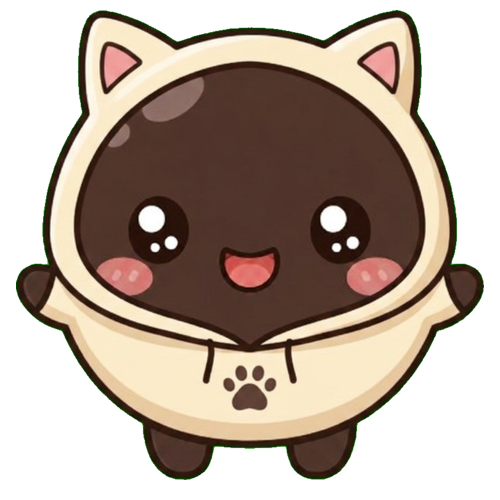
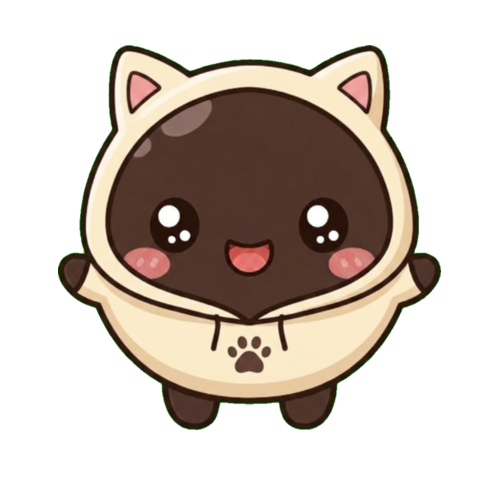
Ambient FX for every theme + right-size the 2 new skins
Backgrounds felt flat, so every theme now has motion native to its world
(same .theme-fx infra as galaxy/winter, pure CSS, reduced-motion gated):
  cozy    - faint warm dust motes rising in the window light
  night   - glowing fireflies that pulse + wander, plus stars
  sakura  - two layers of falling cherry petals
  autumn  - drifting amber/rust leaves
  rainy   - two rain-streak layers + a fog breath on the glass
  library - golden dust motes + a lamp glow that breathes (paid)
  sunset  - golden glints dancing on the water + sun haze (paid)

Cat Hoodie + Royal portraits were ~468px in the 500 canvas (94%) vs the
~75% the rest of the family fills, so they rendered oversized. Trimmed +
rescaled to ~383px and regenerated their breathing sheets. Now they sit
on the counter like every other skin. QC'd all in-scene. SW v87.

diff --git a/styles.css b/styles.css
@@ -3352,3 +3352,171 @@ dialog[open] .reward-confetti span:nth-child(7) { animation-delay: 0.02s; }
   border-top-color: rgba(255, 255, 255, 0.85);
 }
 .scene[data-theme="sunset"] .speech-bubble { background: #fff2e8; }
+
+/* ══ Ambient life for every theme (2026-07) ═══════════════════════════════
+   Every backdrop gets motion native to its world, same infra as galaxy/
+   winter: layers inside .theme-fx (sky zone), gradient sprites, position or
+   opacity animation only. Paid themes stay the flashiest. */
+
+/* COZY (default) — the softest touch: warm dust motes drifting up the window
+   light, barely-there. The default theme must whisper, not shout. */
+.scene[data-theme="cozy"] .theme-fx::before {
+  background-repeat: repeat;
+  background-size: 100% 240px;
+  background-image:
+    radial-gradient(2px 2px at 30% 30px, rgba(255,226,170,0.55), transparent),
+    radial-gradient(1.6px 1.6px at 55% 110px, rgba(255,236,190,0.45), transparent),
+    radial-gradient(1.8px 1.8px at 44% 190px, rgba(255,226,170,0.5), transparent),
+    radial-gradient(1.4px 1.4px at 66% 60px, rgba(255,240,200,0.4), transparent);
+  animation: mote-rise 16s linear infinite;
+  opacity: 0.8;
+}
+@keyframes mote-rise { from { background-position-y: 240px; } to { background-position-y: 0; } }
+
+/* NIGHT — fireflies: tiny warm dots that pulse and wander, plus faint stars. */
+.scene[data-theme="night"] .theme-fx::before {
+  background-repeat: no-repeat;
+  background-image:
+    radial-gradient(2.6px 2.6px at 16% 34%, rgba(255,244,150,0.9), transparent),
+    radial-gradient(2px 2px at 38% 52%, rgba(230,255,160,0.8), transparent),
+    radial-gradient(2.4px 2.4px at 64% 40%, rgba(255,244,150,0.85), transparent),
+    radial-gradient(2px 2px at 84% 55%, rgba(230,255,160,0.75), transparent),
+    radial-gradient(1.8px 1.8px at 50% 28%, rgba(255,250,180,0.7), transparent);
+  filter: drop-shadow(0 0 4px rgba(255,244,150,0.8));
+  animation: firefly-pulse 4.2s ease-in-out infinite;
+}
+.scene[data-theme="night"] .theme-fx::after {
+  background-repeat: no-repeat;
+  background-image:
+    radial-gradient(1.6px 1.6px at 22% 12%, #fff, transparent),
+    radial-gradient(1.4px 1.4px at 48% 8%, #fff, transparent),
+    radial-gradient(1.8px 1.8px at 72% 15%, #fff, transparent),
+    radial-gradient(1.4px 1.4px at 90% 10%, #fff, transparent);
+  animation: star-twinkle 4.8s ease-in-out infinite;
+  opacity: 0.8;
+}
+@keyframes firefly-pulse {
+  0%, 100% { opacity: 0.25; transform: translate3d(0, 0, 0); }
+  50%      { opacity: 1;    transform: translate3d(1.5%, -2%, 0); }
+}
+
+/* SAKURA — falling cherry petals, two layers drifting at different speeds. */
+.scene[data-theme="sakura"] .theme-fx::before,
+.scene[data-theme="sakura"] .theme-fx::after {
+  background-repeat: repeat;
+  background-size: 100% 220px;
+  background-image:
+    radial-gradient(4px 2.6px at 22% 20px, rgba(255,183,205,0.9), transparent),
+    radial-gradient(3.4px 2.2px at 56% 70px, rgba(255,199,216,0.85), transparent),
+    radial-gradient(4px 2.4px at 80% 40px, rgba(250,170,196,0.9), transparent),
+    radial-gradient(3px 2px at 38% 140px, rgba(255,199,216,0.8), transparent),
+    radial-gradient(3.6px 2.4px at 68% 180px, rgba(255,183,205,0.85), transparent),
+    radial-gradient(3px 2px at 10% 100px, rgba(255,210,224,0.75), transparent);
+  animation: petal-fall 9s linear infinite;
+}
+.scene[data-theme="sakura"] .theme-fx::after {
+  animation-duration: 14s; opacity: 0.65; background-position-x: 60px;
+}
+@keyframes petal-fall {
+  from { background-position-y: -220px; background-position-x: 0; }
+  to   { background-position-y: 0;      background-position-x: 26px; }
+}
+
+/* AUTUMN — drifting falling leaves in amber and rust. */
+.scene[data-theme="autumn"] .theme-fx::before,
+.scene[data-theme="autumn"] .theme-fx::after {
+  background-repeat: repeat;
+  background-size: 100% 260px;
+  background-image:
+    radial-gradient(4.4px 3px at 18% 30px, rgba(224,141,60,0.9), transparent),
+    radial-gradient(3.6px 2.6px at 52% 90px, rgba(233,169,86,0.85), transparent),
+    radial-gradient(4px 2.8px at 78% 50px, rgba(196,108,44,0.85), transparent),
+    radial-gradient(3.4px 2.4px at 34% 170px, rgba(233,169,86,0.8), transparent),
+    radial-gradient(4px 2.8px at 64% 220px, rgba(224,141,60,0.85), transparent);
+  animation: leaf-fall 11s linear infinite;
+}
+.scene[data-theme="autumn"] .theme-fx::after {
+  animation-duration: 17s; opacity: 0.6; background-position-x: 70px;
+}
+@keyframes leaf-fall {
+  from { background-position-y: -260px; background-position-x: 0; }
+  to   { background-position-y: 0;      background-position-x: -38px; }
+}
+
+/* RAINY — two layers of rain streaks + a slow fog breath on the glass. */
+.scene[data-theme="rainy"] .theme-fx::before,
+.scene[data-theme="rainy"] .theme-fx::after {
+  background-repeat: repeat;
+  background-size: 90px 160px;
+  background-image:
+    linear-gradient(168deg, transparent 0 46%, rgba(174,199,220,0.55) 48% 52%, transparent 54% 100%);
+  animation: rain-fall 0.9s linear infinite;
+}
+.scene[data-theme="rainy"] .theme-fx::after {
+  background-size: 130px 220px;
+  animation-duration: 1.4s; opacity: 0.5; background-position-x: 40px;
+}
+@keyframes rain-fall { from { background-position-y: -160px; } to { background-position-y: 0; } }
+.scene[data-theme="rainy"] .theme-fx {
+  background-repeat: no-repeat;
+  background-image: radial-gradient(80% 60% at 50% 30%, rgba(214,226,235,0.35), transparent 75%);
+  animation: fog-breathe 9s ease-in-out infinite alternate;
+}
+@keyframes fog-breathe { from { opacity: 0.35; } to { opacity: 0.8; } }
+
+/* HONEY LIBRARY — golden dust motes rising through lamplight + a soft lamp
+   glow that breathes near the shelves. */
+.scene[data-theme="library"] .theme-fx::before {
+  background-repeat: repeat;
+  background-size: 100% 220px;
+  background-image:
+    radial-gradient(2.2px 2.2px at 28% 40px, rgba(255,214,140,0.75), transparent),
+    radial-gradient(1.8px 1.8px at 52% 120px, rgba(255,226,170,0.65), transparent),
+    radial-gradient(2px 2px at 72% 70px, rgba(255,206,120,0.7), transparent),
+    radial-gradient(1.6px 1.6px at 40% 190px, rgba(255,226,170,0.6), transparent),
+    radial-gradient(1.8px 1.8px at 86% 150px, rgba(255,214,140,0.6), transparent);
+  animation: mote-rise 13s linear infinite;
+}
+.scene[data-theme="library"] .theme-fx::after {
+  background-repeat: no-repeat;
+  background-image:
+    radial-gradient(45% 40% at 82% 62%, rgba(255,196,110,0.32), transparent 72%),
+    radial-gradient(38% 34% at 12% 58%, rgba(255,206,130,0.22), transparent 70%);
+  animation: lamp-breathe 6s ease-in-out infinite alternate;
+}
+@keyframes lamp-breathe { from { opacity: 0.55; } to { opacity: 1; } }
+
+/* SEASIDE SUNSET — golden glints dancing on the water + a warm sun haze that
+   slowly breathes, like the last hour of golden light. */
+.scene[data-theme="sunset"] .theme-fx::before {
+  background-repeat: no-repeat;
+  background-image:
+    radial-gradient(2.6px 1.6px at 34% 62%, rgba(255,235,180,0.95), transparent),
+    radial-gradient(2px 1.4px at 46% 68%, rgba(255,220,160,0.85), transparent),
+    radial-gradient(2.4px 1.5px at 56% 64%, rgba(255,235,180,0.9), transparent),
+    radial-gradient(2px 1.3px at 64% 70%, rgba(255,225,170,0.8), transparent),
+    radial-gradient(2.2px 1.4px at 42% 74%, rgba(255,235,180,0.85), transparent),
+    radial-gradient(1.8px 1.2px at 52% 78%, rgba(255,220,160,0.8), transparent);
+  animation: water-glint 3.2s ease-in-out infinite;
+}
+@keyframes water-glint {
+  0%, 100% { opacity: 0.35; transform: translate3d(0, 0, 0); }
+  50%      { opacity: 1;    transform: translate3d(0.8%, 0, 0); }
+}
+.scene[data-theme="sunset"] .theme-fx::after {
+  background-repeat: no-repeat;
+  background-image:
+    radial-gradient(60% 50% at 50% 45%, rgba(255,176,120,0.30), transparent 72%),
+    radial-gradient(45% 38% at 30% 30%, rgba(255,200,150,0.22), transparent 70%);
+  mix-blend-mode: screen;
+  animation: sun-haze 12s ease-in-out infinite alternate;
+}
+@keyframes sun-haze {
+  from { opacity: 0.5;  transform: scale(1); }
+  to   { opacity: 0.95; transform: scale(1.06); }
+}
+
+/* Stillness for those who ask for it */
+@media (prefers-reduced-motion: reduce) {
+  .theme-fx, .theme-fx::before, .theme-fx::after { animation: none !important; }
+}

diff --git a/sw.js b/sw.js
@@ -1,7 +1,7 @@
 // Mr. Tapioca service worker — makes the app installable and usable offline.
 // Bump CACHE on every release so installed users get the new app shell
 // (cache-first would otherwise serve them the old index/app.js/styles forever).
-const CACHE = "mr-tapioca-v86";
+const CACHE = "mr-tapioca-v87";
 
 // Core app shell precached on install so the app boots with no network.
 const SHELL = [
